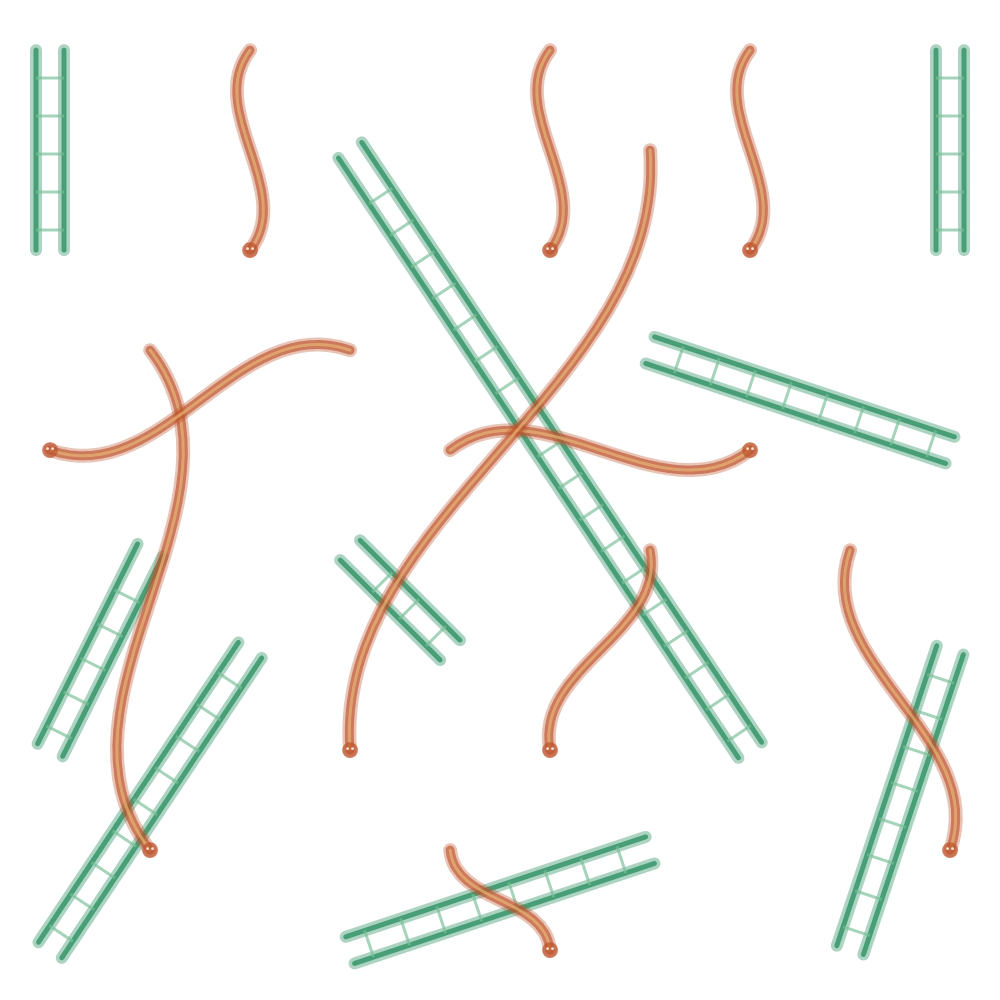
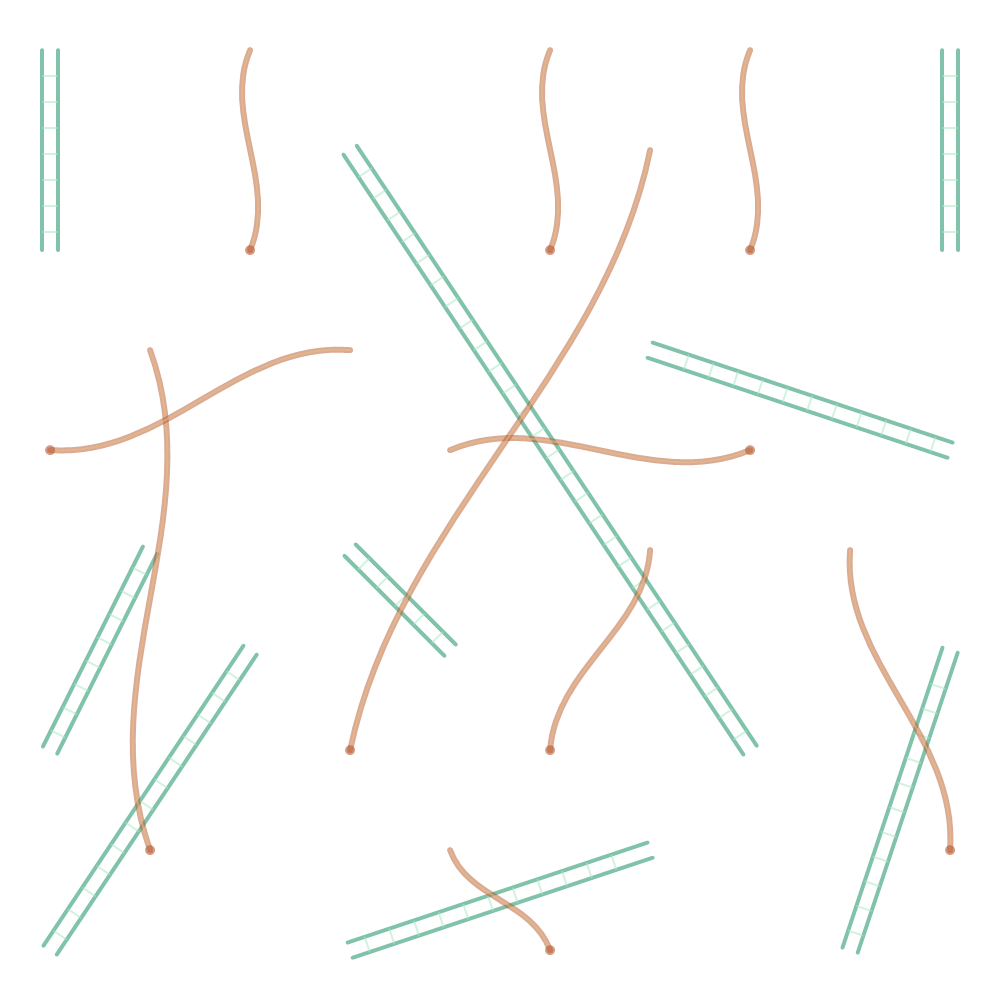
docs: refine family board generation prompts (no-frame)

diff --git a/src/screens/GamesScreen.tsx b/src/screens/GamesScreen.tsx
@@ -157,7 +157,9 @@ export function GamesScreen() {
   const showJumpTextOnTiles = !isNarrowPhone;
   const showOverflowTileCount = !isNarrowPhone;
   const maxVisibleTileTokens = isNarrowPhone ? 2 : 3;
-  const useBoardArtLayers = Boolean(boardSkin.boardBaseImage || boardSkin.overlaySnakesLaddersImage);
+  const hasBoardBaseArt = Boolean(boardSkin.boardBaseImage);
+  const boardOverlayOpacity = boardSkin.overlayOpacity ?? 0.72;
+  const boardOverlayInset = boardSkin.overlayInset ?? 0;
   const [selectedPlayerIds, setSelectedPlayerIds] = useState<string[]>([]);
 
   const currentTurnLabel = (() => {
@@ -353,21 +355,39 @@ export function GamesScreen() {
                 </View>
               ) : null}
 
-              <View style={[styles.boardGrid, { borderColor: boardSkin.boardBorder, backgroundColor: boardSkin.boardBackground }]}>
+              <View
+                style={[
+                  styles.boardGrid,
+                  {
+                    borderColor: boardSkin.boardBorder,
+                    backgroundColor: boardSkin.boardBackground,
+                    borderWidth: hasBoardBaseArt ? 0 : 1,
+                  },
+                ]}
+              >
                 {boardSkin.boardBaseImage ? (
                   <Image
                     pointerEvents="none"
                     source={boardSkin.boardBaseImage}
                     style={styles.boardArtLayer}
-                    resizeMode="cover"
+                    resizeMode="stretch"
                   />
                 ) : null}
                 {boardSkin.overlaySnakesLaddersImage ? (
                   <Image
                     pointerEvents="none"
                     source={boardSkin.overlaySnakesLaddersImage}
-                    style={[styles.boardArtLayer, styles.boardOverlayArtLayer]}
-                    resizeMode="cover"
+                    style={[
+                      styles.boardArtLayer,
+                      {
+                        opacity: boardOverlayOpacity,
+                        top: boardOverlayInset,
+                        right: boardOverlayInset,
+                        bottom: boardOverlayInset,
+                        left: boardOverlayInset,
+                      },
+                    ]}
+                    resizeMode="stretch"
                   />
                 ) : null}
 
@@ -384,8 +404,9 @@ export function GamesScreen() {
                               styles.boardCell,
                               isNarrowPhone ? styles.boardCellNarrow : null,
                               {
-                                borderColor: boardSkin.tileBorder,
-                                backgroundColor: useBoardArtLayers
+                                borderColor: hasBoardBaseArt ? "transparent" : boardSkin.tileBorder,
+                                borderWidth: hasBoardBaseArt ? 0 : StyleSheet.hairlineWidth,
+                                backgroundColor: hasBoardBaseArt
                                   ? "transparent"
                                   : (cell.row + cell.column) % 2 === 0
                                     ? boardSkin.tileLight
@@ -718,19 +739,28 @@ const styles = StyleSheet.create({
     width: "100%",
     aspectRatio: 1,
     flexDirection: "column",
-    borderWidth: 1,
-    borderRadius: 14,
+    borderWidth: 0,
+    borderRadius: 0,
     overflow: "hidden",
     position: "relative",
   },
   boardArtLayer: {
-    ...StyleSheet.absoluteFillObject,
-  },
-  boardOverlayArtLayer: {
-    opacity: 0.78,
+    position: "absolute",
+    top: 0,
+    right: 0,
+    bottom: 0,
+    left: 0,
+    width: "100%",
+    height: "100%",
   },
   boardContentLayer: {
-    ...StyleSheet.absoluteFillObject,
+    position: "absolute",
+    top: 0,
+    right: 0,
+    bottom: 0,
+    left: 0,
+    width: "100%",
+    height: "100%",
     zIndex: 1,
   },
   boardRow: {
@@ -739,7 +769,6 @@ const styles = StyleSheet.create({
   },
   boardCell: {
     flex: 1,
-    borderWidth: 0.5,
     padding: 2,
     justifyContent: "space-between",
     overflow: "hidden",

diff --git a/src/features/game/boardSkins.ts b/src/features/game/boardSkins.ts
@@ -11,6 +11,8 @@ export type BoardSkinTheme = {
   thumbnailImage?: ImageSourcePropType;
   boardBaseImage?: ImageSourcePropType;
   overlaySnakesLaddersImage?: ImageSourcePropType;
+  overlayOpacity?: number;
+  overlayInset?: number;
   boardBackground: string;
   boardBorder: string;
   tileLight: string;
@@ -30,6 +32,11 @@ export const BOARD_SKINS: Record<BoardSkinId, BoardSkinTheme> = {
     id: "family",
     label: "Family",
     subtitle: "Warm and clear",
+    thumbnailImage: require("../../../assets/boards/family/thumbnail_v1.png"),
+    boardBaseImage: require("../../../assets/boards/family/board_base_v1.png"),
+    overlaySnakesLaddersImage: require("../../../assets/boards/family/overlay_snakes_ladders_v1.png"),
+    overlayOpacity: 1,
+    overlayInset: 0,
     boardBackground: "#fff7eb",
     boardBorder: "#f0cc9c",
     tileLight: "#fffdf8",
@@ -45,9 +52,11 @@ export const BOARD_SKINS: Record<BoardSkinId, BoardSkinTheme> = {
     id: "tropical",
     label: "Tropical",
     subtitle: "Fresh and bright",
-    thumbnailImage: require("../../../assets/boards/tropical/thumbnail.png"),
-    boardBaseImage: require("../../../assets/boards/tropical/board_base.png"),
-    overlaySnakesLaddersImage: require("../../../assets/boards/tropical/overlay_snakes_ladders.png"),
+    thumbnailImage: require("../../../assets/boards/tropical/thumbnail_v3.png"),
+    boardBaseImage: require("../../../assets/boards/tropical/board_base_v3.png"),
+    overlaySnakesLaddersImage: require("../../../assets/boards/tropical/overlay_snakes_ladders_v3.png"),
+    overlayOpacity: 1,
+    overlayInset: 0,
     boardBackground: "#e9fbf3",
     boardBorder: "#a3ddbe",
     tileLight: "#f7fff9",
